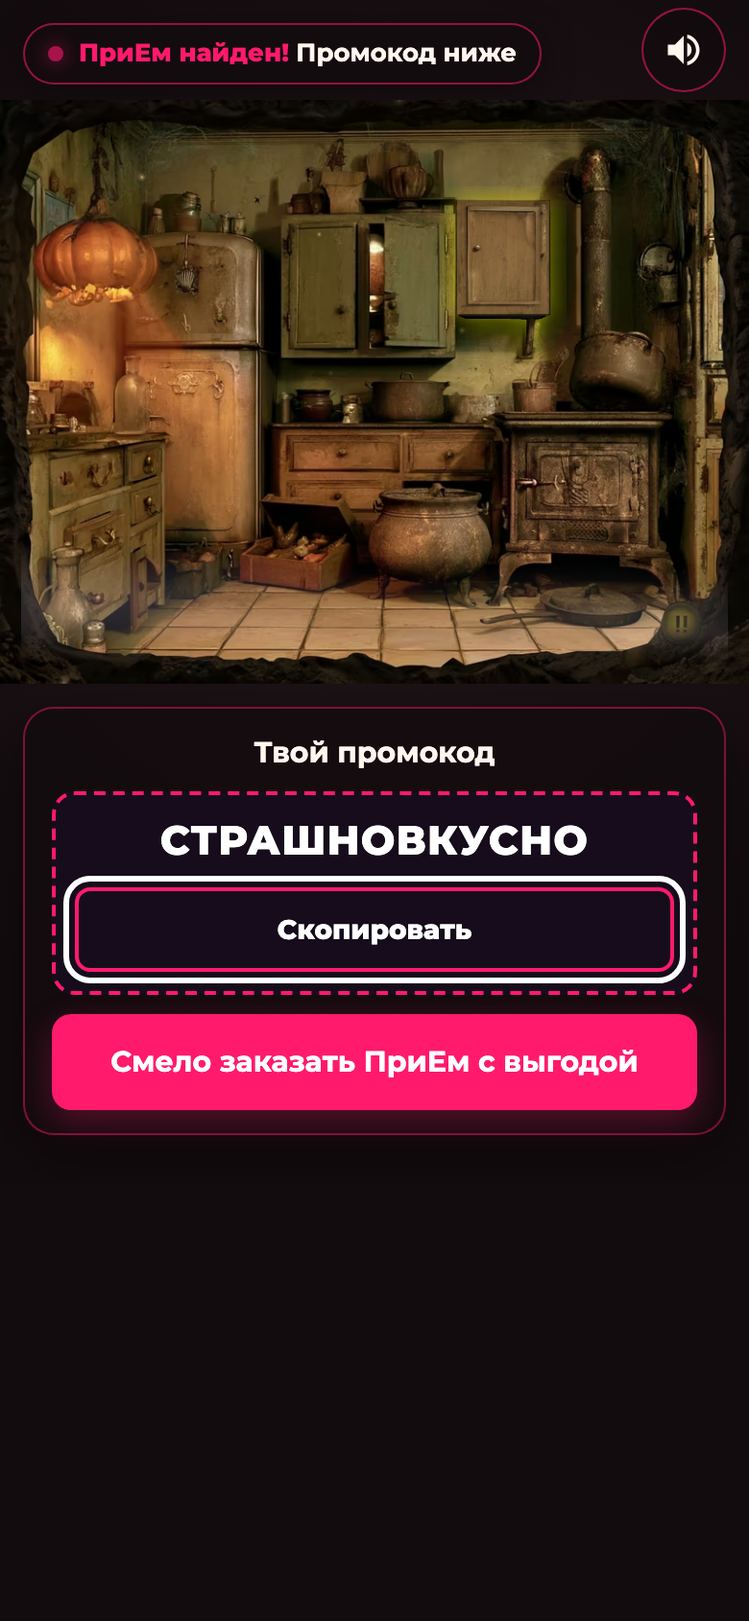
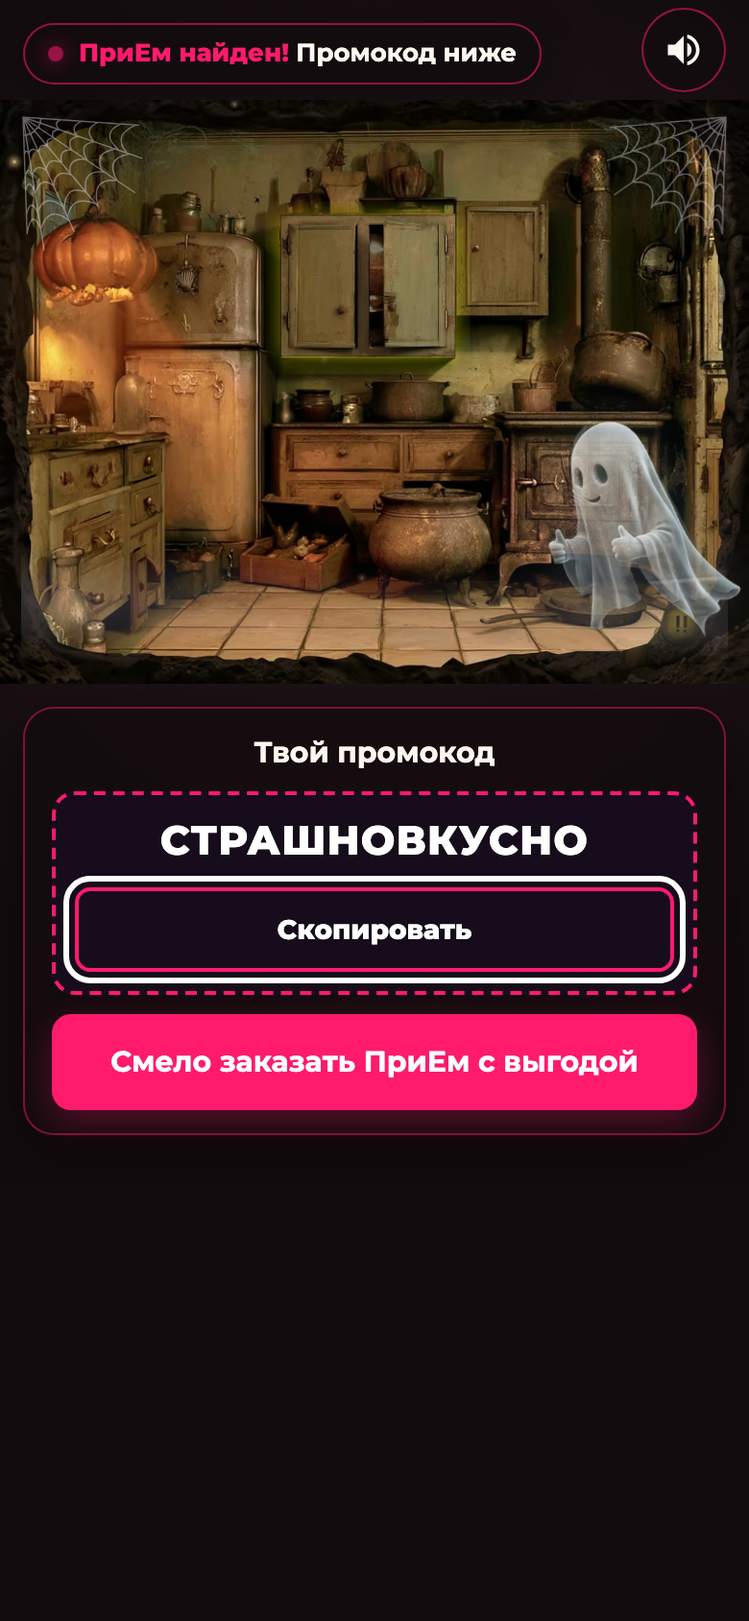
Адаптив попапа: невысокие экраны, узкие, альбомная ориентация

diff --git a/dist/halloween-game-tilda.html b/dist/halloween-game-tilda.html
@@ -203,6 +203,34 @@ background:#1a0f14;border:1px solid rgba(255,26,108,.6);color:#fff;font-size:15p
 #hlw-wrap .hlw-overlay,#hlw-wrap .hlw-dialog,#hlw-wrap .hlw-tip{transition:none}
 #hlw-wrap .hlw-bar{animation:none}
 }
+@media (max-height:860px){
+#hlw-wrap .hlw-pic,#hlw-wrap #hlw-win .hlw-pic{max-height:30vh;max-height:30svh}
+#hlw-wrap .hlw-dtext{margin-top:8px}
+#hlw-wrap .hlw-promo{margin-top:14px}
+#hlw-wrap .hlw-actions{margin-top:14px;gap:10px}
+}
+@media (max-height:700px){
+#hlw-wrap .hlw-pic,#hlw-wrap #hlw-win .hlw-pic{max-height:24vh;max-height:24svh}
+}
+@media (max-width:374px){
+#hlw-wrap .hlw-dtitle{font-size:20px}
+#hlw-wrap .hlw-dtext{font-size:15px}
+#hlw-wrap .hlw-body{padding:16px 16px 18px}
+#hlw-wrap .hlw-btn{min-height:46px}
+}
+@media (max-width:1023px) and (orientation:landscape) and (max-height:560px){
+#hlw-wrap .hlw-scene{width:min(100%,calc((100svh - 64px) * 1337 / 1044))}
+#hlw-wrap .hlw-dialog,#hlw-wrap #hlw-win .hlw-dialog{width:min(100%,820px);display:flex;align-items:stretch;max-height:calc(100svh - 20px)}
+#hlw-wrap .hlw-pic,#hlw-wrap #hlw-win .hlw-pic{flex:0 0 38%;max-height:none;aspect-ratio:auto}
+#hlw-wrap .hlw-pic::after{display:none}
+#hlw-wrap .hlw-body{flex:1 1 auto;overflow-y:auto;padding:16px 20px}
+#hlw-wrap .hlw-dtitle{font-size:20px}
+#hlw-wrap .hlw-dtext{font-size:15px}
+#hlw-wrap .hlw-promo{flex-wrap:nowrap}
+#hlw-wrap .hlw-code{flex:1 1 auto;text-align:left;font-size:18px}
+#hlw-wrap .hlw-copy{flex:0 0 auto}
+#hlw-wrap .hlw-actions .hlw-btn{flex:1 1 auto}
+}
 #hlw-wrap .hlw-hl{color:#fff;font-weight:800;white-space:nowrap;background:var(--hlw-pink);padding:1px 6px;border-radius:5px;-webkit-box-decoration-break:clone;box-decoration-break:clone}
 </style>
 <section id="halloween-game" aria-label="Страшная кухня: найди, где спрятан&nbsp;ПриЕм"><div id="hlw-wrap" class="hlw-wrap" style="--hlw-panel:#4c2f72;--hlw-pink:#ff1a6c;--hlw-yellow:#feda00;--hlw-sec:#8c41e3;--hlw-glow:255,200,40;--hlw-kar:1337/1044;--hlw-topk:0.11900000000000001;--lx:31.8%;--ly:36%;--lw:20%;--klx:12.8%;--kly:32%;--klw:46%;--gx:27.2%;--gy:70%;--gw:43.8%;--gh:24%;--kgx:2.8%;--kgy:69%;--kgw:94.4%;--kgh:28%"><div class="hlw-top"><div class="hlw-pill" role="status" aria-live="polite"><span class="hlw-pill__dot" aria-hidden="true"></span><span class="hlw-pill__txt">Найди, где спрятался <b>ПриЕм</b></span></div><button type="button" class="hlw-sound" aria-pressed="true" aria-label="Выключить звук" title="Выключить звук"><svg class="hlw-off" viewBox="0 0 24 24" aria-hidden="true"><path d="M16.5 12c0-1.77-1.02-3.29-2.5-4.03v2.21l2.45 2.45c.03-.2.05-.41.05-.63zm2.5 0c0 .94-.2 1.82-.54 2.64l1.51 1.51C20.63 14.91 21 13.5 21 12c0-4.28-2.99-7.86-7-8.77v2.06c2.89.86 5 3.54 5 6.71zM4.27 3 3 4.27 7.73 9H3v6h4l5 5v-6.73l4.25 4.25c-.67.52-1.42.93-2.25 1.18v2.06c1.38-.31 2.63-.95 3.69-1.81L19.73 21 21 19.73l-9-9L4.27 3zM12 4 9.91 6.09 12 8.18V4z"/></svg><svg class="hlw-on" viewBox="0 0 24 24" aria-hidden="true"><path d="M3 9v6h4l5 5V4L7 9H3zm13.5 3c0-1.77-1.02-3.29-2.5-4.03v8.05c1.48-.73 2.5-2.25 2.5-4.02zM14 3.23v2.06c2.89.86 5 3.54 5 6.71s-2.11 5.85-5 6.71v2.06c4.01-.91 7-4.49 7-8.77s-2.99-7.86-7-8.77z"/></svg></button></div><div class="hlw-scene"><picture><source media="(min-width:1024px)" type="image/avif" srcset="https://cdn.jsdelivr.net/gh/ElenaSamanchuk/priem-halloween-game@c37df78d004a/assets/scene-1440.6e1880be.avif 1440w, https://cdn.jsdelivr.net/gh/ElenaSamanchuk/priem-halloween-game@c37df78d004a/assets/scene-2880.daaa8933.avif 2880w" sizes="100vw"><source media="(min-width:1024px)" type="image/webp" srcset="https://cdn.jsdelivr.net/gh/ElenaSamanchuk/priem-halloween-game@c37df78d004a/assets/scene-1440.4ed0677d.webp 1440w, https://cdn.jsdelivr.net/gh/ElenaSamanchuk/priem-halloween-game@c37df78d004a/assets/scene-2880.d6ff1ca6.webp 2880w" sizes="100vw"><source type="image/avif" srcset="https://cdn.jsdelivr.net/gh/ElenaSamanchuk/priem-halloween-game@c37df78d004a/assets/kitchen-800.70b8b57f.avif 800w, https://cdn.jsdelivr.net/gh/ElenaSamanchuk/priem-halloween-game@c37df78d004a/assets/kitchen-1400.292609db.avif 1400w" sizes="(max-width:760px) 100vw, 760px"><img class="hlw-scene__bg" src="https://cdn.jsdelivr.net/gh/ElenaSamanchuk/priem-halloween-game@c37df78d004a/assets/kitchen-800.654b2a1f.webp" srcset="https://cdn.jsdelivr.net/gh/ElenaSamanchuk/priem-halloween-game@c37df78d004a/assets/kitchen-800.654b2a1f.webp 800w, https://cdn.jsdelivr.net/gh/ElenaSamanchuk/priem-halloween-game@c37df78d004a/assets/kitchen-1400.e611c2cb.webp 1400w" sizes="(max-width:760px) 100vw, 760px" alt="" draggable="false" decoding="async" fetchpriority="high"></picture><div class="hlw-lamp" aria-hidden="true"></div><div class="hlw-fog" aria-hidden="true"></div><div class="hlw-web hlw-web--l" aria-hidden="true"><svg class="hlw-web__svg" viewBox="0 0 200 200" aria-hidden="true" focusable="false"><path d="M0 0L171.6 12M0 0L175.9 60.6M0 0L165.8 111.8M0 0L110.6 131.8M0 0L75.7 169.9M0 0L31.3 197.5M0 0L6 171.9M29 2Q22.8 4.6 27.5 9.5M27.5 9.5Q20.8 10.4 24.9 16.8M24.1 16.3Q17.3 15.6 18.2 21.6M18.7 22.3Q12.3 19.8 11.8 26.6M11.8 26.6Q6.6 22.3 4.7 29.6M4.6 28.8Q2.2 23.2 1 28.2M55.9 3.9Q43.9 8.9 54.5 18.8M52.9 18.2Q40.1 20 45 30.4M46.4 31.3Q33.3 30 36 42.9M36 42.9Q23.7 38 23.5 52.7M22.8 51.2Q12.7 43 8.5 53.7M8.8 55.3Q4.3 44.6 2 56M87.1 6.1Q68.5 13.9 80.1 27.6M82.6 28.4Q62.5 31.2 72.4 48.9M72.4 48.9Q51.9 46.8 57.8 68.9M56.2 66.9Q37 59.3 34.5 77.4M35.5 79.8Q19.8 67 13.7 86.3M13.7 86.3Q6.7 69.6 3.1 89.9M111.7 7.8Q87.8 17.9 105.9 36.5M105.9 36.5Q80.2 40 95.6 64.5M92.9 62.6Q66.6 60 69.8 83.2M72 85.8Q47.5 76 45.6 102.3M45.6 102.3Q25.4 85.9 18 113.9M17.5 110.6Q8.6 89.2 3.8 108.6M145.2 10.2Q114.1 23.2 141.8 48.8M137.7 47.4Q104.2 52 117.1 79M120.7 81.4Q86.6 77.9 93.6 111.5M93.6 111.5Q61.7 98.8 61 137M59.2 133Q33.1 111.7 22.1 139.5M22.8 143.8Q11.2 115.9 5.1 145.5M167.6 11.7Q131.7 26.8 154.1 53.1M158.8 54.7Q120.3 60 139.3 93.9M139.3 93.9Q99.9 89.9 111.2 132.6M108 128.7Q71.2 114 66.3 148.9M68.3 153.5Q38.2 128.9 26.3 165.9M26.3 165.9Q12.9 133.8 6 172.9" fill="none" stroke="rgba(232,228,240,.55)" stroke-width=".7" vector-effect="non-scaling-stroke" stroke-linecap="round"/></svg></div><div class="hlw-web hlw-web--r" aria-hidden="true"><svg class="hlw-web__svg" viewBox="0 0 200 200" aria-hidden="true" focusable="false"><path d="M0 0L171.6 12M0 0L175.9 60.6M0 0L165.8 111.8M0 0L110.6 131.8M0 0L75.7 169.9M0 0L31.3 197.5M0 0L6 171.9M29 2Q22.8 4.6 27.5 9.5M27.5 9.5Q20.8 10.4 24.9 16.8M24.1 16.3Q17.3 15.6 18.2 21.6M18.7 22.3Q12.3 19.8 11.8 26.6M11.8 26.6Q6.6 22.3 4.7 29.6M4.6 28.8Q2.2 23.2 1 28.2M55.9 3.9Q43.9 8.9 54.5 18.8M52.9 18.2Q40.1 20 45 30.4M46.4 31.3Q33.3 30 36 42.9M36 42.9Q23.7 38 23.5 52.7M22.8 51.2Q12.7 43 8.5 53.7M8.8 55.3Q4.3 44.6 2 56M87.1 6.1Q68.5 13.9 80.1 27.6M82.6 28.4Q62.5 31.2 72.4 48.9M72.4 48.9Q51.9 46.8 57.8 68.9M56.2 66.9Q37 59.3 34.5 77.4M35.5 79.8Q19.8 67 13.7 86.3M13.7 86.3Q6.7 69.6 3.1 89.9M111.7 7.8Q87.8 17.9 105.9 36.5M105.9 36.5Q80.2 40 95.6 64.5M92.9 62.6Q66.6 60 69.8 83.2M72 85.8Q47.5 76 45.6 102.3M45.6 102.3Q25.4 85.9 18 113.9M17.5 110.6Q8.6 89.2 3.8 108.6M145.2 10.2Q114.1 23.2 141.8 48.8M137.7 47.4Q104.2 52 117.1 79M120.7 81.4Q86.6 77.9 93.6 111.5M93.6 111.5Q61.7 98.8 61 137M59.2 133Q33.1 111.7 22.1 139.5M22.8 143.8Q11.2 115.9 5.1 145.5M167.6 11.7Q131.7 26.8 154.1 53.1M158.8 54.7Q120.3 60 139.3 93.9M139.3 93.9Q99.9 89.9 111.2 132.6M108 128.7Q71.2 114 66.3 148.9M68.3 153.5Q38.2 128.9 26.3 165.9M26.3 165.9Q12.9 133.8 6 172.9" fill="none" stroke="rgba(232,228,240,.55)" stroke-width=".7" vector-effect="non-scaling-stroke" stroke-linecap="round"/></svg></div><div class="hlw-ghost" aria-hidden="true" style="--gr:0.8531"><div class="hlw-ghost__bob"><picture><source type="image/avif" srcset="https://cdn.jsdelivr.net/gh/ElenaSamanchuk/priem-halloween-game@c37df78d004a/assets/ghost-640.2c72e0b8.avif"><img src="https://cdn.jsdelivr.net/gh/ElenaSamanchuk/priem-halloween-game@c37df78d004a/assets/ghost-640.ccb87ec0.webp" alt="" draggable="false" decoding="async" loading="lazy"></picture></div></div><div class="hlw-items" role="group" aria-label="Страшная кухня: найди, где спрятан&nbsp;ПриЕм"><button type="button" class="hlw-item" data-id="pumpkin-lamp" aria-label="Светильник-тыква" style="--fx:26.851%;--fy:14.397%;--fw:10.000%;--fh:28.761%;--kx:2.043%;--ky:5.670%;--kw:21.541%;--kh:33.142%;--o:50% 0%;--hlw-d:0.00s"><img class="hlw-item__img" src="https://cdn.jsdelivr.net/gh/ElenaSamanchuk/priem-halloween-game@c37df78d004a/assets/item-pumpkin-lamp.c3903d52.webp" alt="" draggable="false" decoding="async"></button><button type="button" class="hlw-item" data-id="cabinet-double" aria-label="Шкаф с приоткрытой дверцей" style="--fx:42.345%;--fy:24.554%;--fw:12.743%;--fh:25.603%;--kx:35.419%;--ky:17.375%;--kw:27.450%;--kh:29.502%;--o:50% 0%;--hlw-d:0.43s"><img class="hlw-item__img" src="https://cdn.jsdelivr.net/gh/ElenaSamanchuk/priem-halloween-game@c37df78d004a/assets/item-cabinet-double.2a321ebc.webp" alt="" draggable="false" decoding="async"></button><button type="button" class="hlw-item" data-id="cabinet-single" aria-label="Навесной шкафчик" style="--fx:53.111%;--fy:22.473%;--fw:7.812%;--fh:26.018%;--kx:58.610%;--ky:14.976%;--kw:16.829%;--kh:29.981%;--o:50% 0%;--hlw-d:0.86s"><img class="hlw-item__img" src="https://cdn.jsdelivr.net/gh/ElenaSamanchuk/priem-halloween-game@c37df78d004a/assets/item-cabinet-single.318d29f1.webp" alt="" draggable="false" decoding="async"></button><button type="button" class="hlw-item" data-id="veg-crate" aria-label="Ящик с овощами" style="--fx:40.090%;--fy:66.111%;--fw:8.854%;--fh:19.285%;--kx:30.561%;--ky:65.260%;--kw:19.073%;--kh:22.222%;--o:50% 100%;--hlw-d:1.29s"><img class="hlw-item__img" src="https://cdn.jsdelivr.net/gh/ElenaSamanchuk/priem-halloween-game@c37df78d004a/assets/item-veg-crate.0ac84e96.webp" alt="" draggable="false" decoding="async"></button><button type="button" class="hlw-item" data-id="cauldron" aria-label="Котёл" style="--fx:47.917%;--fy:64.989%;--fw:9.340%;--fh:21.114%;--kx:47.420%;--ky:63.967%;--kw:20.120%;--kh:24.330%;--o:50% 100%;--hlw-d:1.72s"><img class="hlw-item__img" src="https://cdn.jsdelivr.net/gh/ElenaSamanchuk/priem-halloween-game@c37df78d004a/assets/item-cauldron.4abd528a.webp" alt="" draggable="false" decoding="async"></button><button type="button" class="hlw-item" data-id="pan" aria-label="Сковорода под крышкой" style="--fx:55.158%;--fy:79.510%;--fw:11.528%;--fh:11.222%;--kx:63.018%;--ky:80.699%;--kw:24.832%;--kh:12.931%;--o:50% 100%;--hlw-d:2.15s"><img class="hlw-item__img" src="https://cdn.jsdelivr.net/gh/ElenaSamanchuk/priem-halloween-game@c37df78d004a/assets/item-pan.674b38ad.webp" alt="" draggable="false" decoding="async"></button></div><div class="hlw-torch" aria-hidden="true"><div class="hlw-torch__beam"></div></div><canvas class="hlw-fx" aria-hidden="true"></canvas></div><div class="hlw-bar" id="hlw-bar" hidden><span class="hlw-bar__label">Твой промокод</span><div class="hlw-promo"><button type="button" class="hlw-code" aria-label="Скопировать промокод СТРАШНОВКУСНО">СТРАШНОВКУСНО</button><button type="button" class="hlw-copy">Скопировать</button><span class="hlw-tip" role="status" aria-live="polite"></span></div><a class="hlw-btn" href="#menu-plans-v2" data-hlw-order>Смело заказать ПриЕм с&nbsp;выгодой</a></div><div class="hlw-overlay" id="hlw-miss" hidden><div class="hlw-dialog" role="dialog" aria-modal="true" aria-labelledby="hlw-miss-title" aria-describedby="hlw-miss-text" tabindex="-1"><button type="button" class="hlw-close" data-hlw-close aria-label="Закрыть"><svg viewBox="0 0 24 24" aria-hidden="true"><path d="M6 6l12 12M18 6 6 18" fill="none"/></svg></button><div class="hlw-pic"><picture><source id="hlw-miss-avif" type="image/avif" sizes="(max-width:560px) 100vw, 560px"><img id="hlw-miss-img" alt="" sizes="(max-width:560px) 100vw, 560px" decoding="async"></picture></div><div class="hlw-body"><h2 class="hlw-dtitle" id="hlw-miss-title"></h2><p class="hlw-dtext" id="hlw-miss-text"></p><div class="hlw-actions"><button type="button" class="hlw-btn" data-hlw-close>Продолжить&nbsp;поиск</button></div></div></div></div><div class="hlw-overlay" id="hlw-win" hidden><div class="hlw-dialog" role="dialog" aria-modal="true" aria-labelledby="hlw-win-title" aria-describedby="hlw-win-text" tabindex="-1"><button type="button" class="hlw-close" data-hlw-close aria-label="Закрыть"><svg viewBox="0 0 24 24" aria-hidden="true"><path d="M6 6l12 12M18 6 6 18" fill="none"/></svg></button><div class="hlw-pic"><picture><source type="image/avif" srcset="https://cdn.jsdelivr.net/gh/ElenaSamanchuk/priem-halloween-game@c37df78d004a/assets/modal-win-720.0377768a.avif 720w, https://cdn.jsdelivr.net/gh/ElenaSamanchuk/priem-halloween-game@c37df78d004a/assets/modal-win-1200.0791eab0.avif 1200w" sizes="(max-width:640px) 100vw, 640px"><img alt="Тыквоголовый скелет с клевером и довольный призрак" src="https://cdn.jsdelivr.net/gh/ElenaSamanchuk/priem-halloween-game@c37df78d004a/assets/modal-win-720.e848ea72.webp" srcset="https://cdn.jsdelivr.net/gh/ElenaSamanchuk/priem-halloween-game@c37df78d004a/assets/modal-win-720.e848ea72.webp 720w, https://cdn.jsdelivr.net/gh/ElenaSamanchuk/priem-halloween-game@c37df78d004a/assets/modal-win-1200.777a0dca.webp 1200w" sizes="(max-width:640px) 100vw, 640px" decoding="async"></picture></div><div class="hlw-body"><h2 class="hlw-dtitle" id="hlw-win-title">Ого, ты&nbsp;не&nbsp;только смелый, но&nbsp;и&nbsp;удачливый!</h2><p class="hlw-dtext" id="hlw-win-text">Ты&nbsp;нашёл ПриЕм, а&nbsp;значит тебе больше не&nbsp;нужно заходить на&nbsp;страшную кухню. Заказывай готовую еду ещё выгоднее с&nbsp;промокодом <b class="hlw-hl">СТРАШНОВКУСНО</b> на&nbsp;1000&nbsp;₽ (на&nbsp;заказы от&nbsp;5&nbsp;дней)</p><div class="hlw-promo"><button type="button" class="hlw-code" aria-label="Скопировать промокод СТРАШНОВКУСНО">СТРАШНОВКУСНО</button><button type="button" class="hlw-copy">Скопировать</button><span class="hlw-tip" role="status" aria-live="polite"></span></div><div class="hlw-actions"><a class="hlw-btn" href="#menu-plans-v2" data-hlw-order>Смело заказать ПриЕм с&nbsp;выгодой</a><button type="button" class="hlw-btn hlw-btn--sec" id="hlw-share" aria-expanded="false" aria-controls="hlw-sharerow">Рассказать друзьям</button></div><div class="hlw-sharerow" id="hlw-sharerow" hidden><a class="hlw-sharelink" id="hlw-share-vk" href="https://vk.com/share.php" target="_blank" rel="noopener">ВКонтакте</a><a class="hlw-sharelink" id="hlw-share-tg" href="https://t.me/share/url" target="_blank" rel="noopener">Telegram</a><button type="button" class="hlw-sharelink" id="hlw-share-copy">Скопировать ссылку</button></div></div></div></div><div class="hlw-toast" role="status" aria-live="polite"></div></div></section>

diff --git a/dist/halloween-game-local.html b/dist/halloween-game-local.html
@@ -203,6 +203,34 @@ background:#1a0f14;border:1px solid rgba(255,26,108,.6);color:#fff;font-size:15p
 #hlw-wrap .hlw-overlay,#hlw-wrap .hlw-dialog,#hlw-wrap .hlw-tip{transition:none}
 #hlw-wrap .hlw-bar{animation:none}
 }
+@media (max-height:860px){
+#hlw-wrap .hlw-pic,#hlw-wrap #hlw-win .hlw-pic{max-height:30vh;max-height:30svh}
+#hlw-wrap .hlw-dtext{margin-top:8px}
+#hlw-wrap .hlw-promo{margin-top:14px}
+#hlw-wrap .hlw-actions{margin-top:14px;gap:10px}
+}
+@media (max-height:700px){
+#hlw-wrap .hlw-pic,#hlw-wrap #hlw-win .hlw-pic{max-height:24vh;max-height:24svh}
+}
+@media (max-width:374px){
+#hlw-wrap .hlw-dtitle{font-size:20px}
+#hlw-wrap .hlw-dtext{font-size:15px}
+#hlw-wrap .hlw-body{padding:16px 16px 18px}
+#hlw-wrap .hlw-btn{min-height:46px}
+}
+@media (max-width:1023px) and (orientation:landscape) and (max-height:560px){
+#hlw-wrap .hlw-scene{width:min(100%,calc((100svh - 64px) * 1337 / 1044))}
+#hlw-wrap .hlw-dialog,#hlw-wrap #hlw-win .hlw-dialog{width:min(100%,820px);display:flex;align-items:stretch;max-height:calc(100svh - 20px)}
+#hlw-wrap .hlw-pic,#hlw-wrap #hlw-win .hlw-pic{flex:0 0 38%;max-height:none;aspect-ratio:auto}
+#hlw-wrap .hlw-pic::after{display:none}
+#hlw-wrap .hlw-body{flex:1 1 auto;overflow-y:auto;padding:16px 20px}
+#hlw-wrap .hlw-dtitle{font-size:20px}
+#hlw-wrap .hlw-dtext{font-size:15px}
+#hlw-wrap .hlw-promo{flex-wrap:nowrap}
+#hlw-wrap .hlw-code{flex:1 1 auto;text-align:left;font-size:18px}
+#hlw-wrap .hlw-copy{flex:0 0 auto}
+#hlw-wrap .hlw-actions .hlw-btn{flex:1 1 auto}
+}
 #hlw-wrap .hlw-hl{color:#fff;font-weight:800;white-space:nowrap;background:var(--hlw-pink);padding:1px 6px;border-radius:5px;-webkit-box-decoration-break:clone;box-decoration-break:clone}
 </style>
 <section id="halloween-game" aria-label="Страшная кухня: найди, где спрятан&nbsp;ПриЕм"><div id="hlw-wrap" class="hlw-wrap" style="--hlw-panel:#4c2f72;--hlw-pink:#ff1a6c;--hlw-yellow:#feda00;--hlw-sec:#8c41e3;--hlw-glow:255,200,40;--hlw-kar:1337/1044;--hlw-topk:0.11900000000000001;--lx:31.8%;--ly:36%;--lw:20%;--klx:12.8%;--kly:32%;--klw:46%;--gx:27.2%;--gy:70%;--gw:43.8%;--gh:24%;--kgx:2.8%;--kgy:69%;--kgw:94.4%;--kgh:28%"><div class="hlw-top"><div class="hlw-pill" role="status" aria-live="polite"><span class="hlw-pill__dot" aria-hidden="true"></span><span class="hlw-pill__txt">Найди, где спрятался <b>ПриЕм</b></span></div><button type="button" class="hlw-sound" aria-pressed="true" aria-label="Выключить звук" title="Выключить звук"><svg class="hlw-off" viewBox="0 0 24 24" aria-hidden="true"><path d="M16.5 12c0-1.77-1.02-3.29-2.5-4.03v2.21l2.45 2.45c.03-.2.05-.41.05-.63zm2.5 0c0 .94-.2 1.82-.54 2.64l1.51 1.51C20.63 14.91 21 13.5 21 12c0-4.28-2.99-7.86-7-8.77v2.06c2.89.86 5 3.54 5 6.71zM4.27 3 3 4.27 7.73 9H3v6h4l5 5v-6.73l4.25 4.25c-.67.52-1.42.93-2.25 1.18v2.06c1.38-.31 2.63-.95 3.69-1.81L19.73 21 21 19.73l-9-9L4.27 3zM12 4 9.91 6.09 12 8.18V4z"/></svg><svg class="hlw-on" viewBox="0 0 24 24" aria-hidden="true"><path d="M3 9v6h4l5 5V4L7 9H3zm13.5 3c0-1.77-1.02-3.29-2.5-4.03v8.05c1.48-.73 2.5-2.25 2.5-4.02zM14 3.23v2.06c2.89.86 5 3.54 5 6.71s-2.11 5.85-5 6.71v2.06c4.01-.91 7-4.49 7-8.77s-2.99-7.86-7-8.77z"/></svg></button></div><div class="hlw-scene"><picture><source media="(min-width:1024px)" type="image/avif" srcset="./assets/scene-1440.6e1880be.avif 1440w, ./assets/scene-2880.daaa8933.avif 2880w" sizes="100vw"><source media="(min-width:1024px)" type="image/webp" srcset="./assets/scene-1440.4ed0677d.webp 1440w, ./assets/scene-2880.d6ff1ca6.webp 2880w" sizes="100vw"><source type="image/avif" srcset="./assets/kitchen-800.70b8b57f.avif 800w, ./assets/kitchen-1400.292609db.avif 1400w" sizes="(max-width:760px) 100vw, 760px"><img class="hlw-scene__bg" src="./assets/kitchen-800.654b2a1f.webp" srcset="./assets/kitchen-800.654b2a1f.webp 800w, ./assets/kitchen-1400.e611c2cb.webp 1400w" sizes="(max-width:760px) 100vw, 760px" alt="" draggable="false" decoding="async" fetchpriority="high"></picture><div class="hlw-lamp" aria-hidden="true"></div><div class="hlw-fog" aria-hidden="true"></div><div class="hlw-web hlw-web--l" aria-hidden="true"><svg class="hlw-web__svg" viewBox="0 0 200 200" aria-hidden="true" focusable="false"><path d="M0 0L171.6 12M0 0L175.9 60.6M0 0L165.8 111.8M0 0L110.6 131.8M0 0L75.7 169.9M0 0L31.3 197.5M0 0L6 171.9M29 2Q22.8 4.6 27.5 9.5M27.5 9.5Q20.8 10.4 24.9 16.8M24.1 16.3Q17.3 15.6 18.2 21.6M18.7 22.3Q12.3 19.8 11.8 26.6M11.8 26.6Q6.6 22.3 4.7 29.6M4.6 28.8Q2.2 23.2 1 28.2M55.9 3.9Q43.9 8.9 54.5 18.8M52.9 18.2Q40.1 20 45 30.4M46.4 31.3Q33.3 30 36 42.9M36 42.9Q23.7 38 23.5 52.7M22.8 51.2Q12.7 43 8.5 53.7M8.8 55.3Q4.3 44.6 2 56M87.1 6.1Q68.5 13.9 80.1 27.6M82.6 28.4Q62.5 31.2 72.4 48.9M72.4 48.9Q51.9 46.8 57.8 68.9M56.2 66.9Q37 59.3 34.5 77.4M35.5 79.8Q19.8 67 13.7 86.3M13.7 86.3Q6.7 69.6 3.1 89.9M111.7 7.8Q87.8 17.9 105.9 36.5M105.9 36.5Q80.2 40 95.6 64.5M92.9 62.6Q66.6 60 69.8 83.2M72 85.8Q47.5 76 45.6 102.3M45.6 102.3Q25.4 85.9 18 113.9M17.5 110.6Q8.6 89.2 3.8 108.6M145.2 10.2Q114.1 23.2 141.8 48.8M137.7 47.4Q104.2 52 117.1 79M120.7 81.4Q86.6 77.9 93.6 111.5M93.6 111.5Q61.7 98.8 61 137M59.2 133Q33.1 111.7 22.1 139.5M22.8 143.8Q11.2 115.9 5.1 145.5M167.6 11.7Q131.7 26.8 154.1 53.1M158.8 54.7Q120.3 60 139.3 93.9M139.3 93.9Q99.9 89.9 111.2 132.6M108 128.7Q71.2 114 66.3 148.9M68.3 153.5Q38.2 128.9 26.3 165.9M26.3 165.9Q12.9 133.8 6 172.9" fill="none" stroke="rgba(232,228,240,.55)" stroke-width=".7" vector-effect="non-scaling-stroke" stroke-linecap="round"/></svg></div><div class="hlw-web hlw-web--r" aria-hidden="true"><svg class="hlw-web__svg" viewBox="0 0 200 200" aria-hidden="true" focusable="false"><path d="M0 0L171.6 12M0 0L175.9 60.6M0 0L165.8 111.8M0 0L110.6 131.8M0 0L75.7 169.9M0 0L31.3 197.5M0 0L6 171.9M29 2Q22.8 4.6 27.5 9.5M27.5 9.5Q20.8 10.4 24.9 16.8M24.1 16.3Q17.3 15.6 18.2 21.6M18.7 22.3Q12.3 19.8 11.8 26.6M11.8 26.6Q6.6 22.3 4.7 29.6M4.6 28.8Q2.2 23.2 1 28.2M55.9 3.9Q43.9 8.9 54.5 18.8M52.9 18.2Q40.1 20 45 30.4M46.4 31.3Q33.3 30 36 42.9M36 42.9Q23.7 38 23.5 52.7M22.8 51.2Q12.7 43 8.5 53.7M8.8 55.3Q4.3 44.6 2 56M87.1 6.1Q68.5 13.9 80.1 27.6M82.6 28.4Q62.5 31.2 72.4 48.9M72.4 48.9Q51.9 46.8 57.8 68.9M56.2 66.9Q37 59.3 34.5 77.4M35.5 79.8Q19.8 67 13.7 86.3M13.7 86.3Q6.7 69.6 3.1 89.9M111.7 7.8Q87.8 17.9 105.9 36.5M105.9 36.5Q80.2 40 95.6 64.5M92.9 62.6Q66.6 60 69.8 83.2M72 85.8Q47.5 76 45.6 102.3M45.6 102.3Q25.4 85.9 18 113.9M17.5 110.6Q8.6 89.2 3.8 108.6M145.2 10.2Q114.1 23.2 141.8 48.8M137.7 47.4Q104.2 52 117.1 79M120.7 81.4Q86.6 77.9 93.6 111.5M93.6 111.5Q61.7 98.8 61 137M59.2 133Q33.1 111.7 22.1 139.5M22.8 143.8Q11.2 115.9 5.1 145.5M167.6 11.7Q131.7 26.8 154.1 53.1M158.8 54.7Q120.3 60 139.3 93.9M139.3 93.9Q99.9 89.9 111.2 132.6M108 128.7Q71.2 114 66.3 148.9M68.3 153.5Q38.2 128.9 26.3 165.9M26.3 165.9Q12.9 133.8 6 172.9" fill="none" stroke="rgba(232,228,240,.55)" stroke-width=".7" vector-effect="non-scaling-stroke" stroke-linecap="round"/></svg></div><div class="hlw-ghost" aria-hidden="true" style="--gr:0.8531"><div class="hlw-ghost__bob"><picture><source type="image/avif" srcset="./assets/ghost-640.2c72e0b8.avif"><img src="./assets/ghost-640.ccb87ec0.webp" alt="" draggable="false" decoding="async" loading="lazy"></picture></div></div><div class="hlw-items" role="group" aria-label="Страшная кухня: найди, где спрятан&nbsp;ПриЕм"><button type="button" class="hlw-item" data-id="pumpkin-lamp" aria-label="Светильник-тыква" style="--fx:26.851%;--fy:14.397%;--fw:10.000%;--fh:28.761%;--kx:2.043%;--ky:5.670%;--kw:21.541%;--kh:33.142%;--o:50% 0%;--hlw-d:0.00s"><img class="hlw-item__img" src="./assets/item-pumpkin-lamp.c3903d52.webp" alt="" draggable="false" decoding="async"></button><button type="button" class="hlw-item" data-id="cabinet-double" aria-label="Шкаф с приоткрытой дверцей" style="--fx:42.345%;--fy:24.554%;--fw:12.743%;--fh:25.603%;--kx:35.419%;--ky:17.375%;--kw:27.450%;--kh:29.502%;--o:50% 0%;--hlw-d:0.43s"><img class="hlw-item__img" src="./assets/item-cabinet-double.2a321ebc.webp" alt="" draggable="false" decoding="async"></button><button type="button" class="hlw-item" data-id="cabinet-single" aria-label="Навесной шкафчик" style="--fx:53.111%;--fy:22.473%;--fw:7.812%;--fh:26.018%;--kx:58.610%;--ky:14.976%;--kw:16.829%;--kh:29.981%;--o:50% 0%;--hlw-d:0.86s"><img class="hlw-item__img" src="./assets/item-cabinet-single.318d29f1.webp" alt="" draggable="false" decoding="async"></button><button type="button" class="hlw-item" data-id="veg-crate" aria-label="Ящик с овощами" style="--fx:40.090%;--fy:66.111%;--fw:8.854%;--fh:19.285%;--kx:30.561%;--ky:65.260%;--kw:19.073%;--kh:22.222%;--o:50% 100%;--hlw-d:1.29s"><img class="hlw-item__img" src="./assets/item-veg-crate.0ac84e96.webp" alt="" draggable="false" decoding="async"></button><button type="button" class="hlw-item" data-id="cauldron" aria-label="Котёл" style="--fx:47.917%;--fy:64.989%;--fw:9.340%;--fh:21.114%;--kx:47.420%;--ky:63.967%;--kw:20.120%;--kh:24.330%;--o:50% 100%;--hlw-d:1.72s"><img class="hlw-item__img" src="./assets/item-cauldron.4abd528a.webp" alt="" draggable="false" decoding="async"></button><button type="button" class="hlw-item" data-id="pan" aria-label="Сковорода под крышкой" style="--fx:55.158%;--fy:79.510%;--fw:11.528%;--fh:11.222%;--kx:63.018%;--ky:80.699%;--kw:24.832%;--kh:12.931%;--o:50% 100%;--hlw-d:2.15s"><img class="hlw-item__img" src="./assets/item-pan.674b38ad.webp" alt="" draggable="false" decoding="async"></button></div><div class="hlw-torch" aria-hidden="true"><div class="hlw-torch__beam"></div></div><canvas class="hlw-fx" aria-hidden="true"></canvas></div><div class="hlw-bar" id="hlw-bar" hidden><span class="hlw-bar__label">Твой промокод</span><div class="hlw-promo"><button type="button" class="hlw-code" aria-label="Скопировать промокод СТРАШНОВКУСНО">СТРАШНОВКУСНО</button><button type="button" class="hlw-copy">Скопировать</button><span class="hlw-tip" role="status" aria-live="polite"></span></div><a class="hlw-btn" href="#menu-plans-v2" data-hlw-order>Смело заказать ПриЕм с&nbsp;выгодой</a></div><div class="hlw-overlay" id="hlw-miss" hidden><div class="hlw-dialog" role="dialog" aria-modal="true" aria-labelledby="hlw-miss-title" aria-describedby="hlw-miss-text" tabindex="-1"><button type="button" class="hlw-close" data-hlw-close aria-label="Закрыть"><svg viewBox="0 0 24 24" aria-hidden="true"><path d="M6 6l12 12M18 6 6 18" fill="none"/></svg></button><div class="hlw-pic"><picture><source id="hlw-miss-avif" type="image/avif" sizes="(max-width:560px) 100vw, 560px"><img id="hlw-miss-img" alt="" sizes="(max-width:560px) 100vw, 560px" decoding="async"></picture></div><div class="hlw-body"><h2 class="hlw-dtitle" id="hlw-miss-title"></h2><p class="hlw-dtext" id="hlw-miss-text"></p><div class="hlw-actions"><button type="button" class="hlw-btn" data-hlw-close>Продолжить&nbsp;поиск</button></div></div></div></div><div class="hlw-overlay" id="hlw-win" hidden><div class="hlw-dialog" role="dialog" aria-modal="true" aria-labelledby="hlw-win-title" aria-describedby="hlw-win-text" tabindex="-1"><button type="button" class="hlw-close" data-hlw-close aria-label="Закрыть"><svg viewBox="0 0 24 24" aria-hidden="true"><path d="M6 6l12 12M18 6 6 18" fill="none"/></svg></button><div class="hlw-pic"><picture><source type="image/avif" srcset="./assets/modal-win-720.0377768a.avif 720w, ./assets/modal-win-1200.0791eab0.avif 1200w" sizes="(max-width:640px) 100vw, 640px"><img alt="Тыквоголовый скелет с клевером и довольный призрак" src="./assets/modal-win-720.e848ea72.webp" srcset="./assets/modal-win-720.e848ea72.webp 720w, ./assets/modal-win-1200.777a0dca.webp 1200w" sizes="(max-width:640px) 100vw, 640px" decoding="async"></picture></div><div class="hlw-body"><h2 class="hlw-dtitle" id="hlw-win-title">Ого, ты&nbsp;не&nbsp;только смелый, но&nbsp;и&nbsp;удачливый!</h2><p class="hlw-dtext" id="hlw-win-text">Ты&nbsp;нашёл ПриЕм, а&nbsp;значит тебе больше не&nbsp;нужно заходить на&nbsp;страшную кухню. Заказывай готовую еду ещё выгоднее с&nbsp;промокодом <b class="hlw-hl">СТРАШНОВКУСНО</b> на&nbsp;1000&nbsp;₽ (на&nbsp;заказы от&nbsp;5&nbsp;дней)</p><div class="hlw-promo"><button type="button" class="hlw-code" aria-label="Скопировать промокод СТРАШНОВКУСНО">СТРАШНОВКУСНО</button><button type="button" class="hlw-copy">Скопировать</button><span class="hlw-tip" role="status" aria-live="polite"></span></div><div class="hlw-actions"><a class="hlw-btn" href="#menu-plans-v2" data-hlw-order>Смело заказать ПриЕм с&nbsp;выгодой</a><button type="button" class="hlw-btn hlw-btn--sec" id="hlw-share" aria-expanded="false" aria-controls="hlw-sharerow">Рассказать друзьям</button></div><div class="hlw-sharerow" id="hlw-sharerow" hidden><a class="hlw-sharelink" id="hlw-share-vk" href="https://vk.com/share.php" target="_blank" rel="noopener">ВКонтакте</a><a class="hlw-sharelink" id="hlw-share-tg" href="https://t.me/share/url" target="_blank" rel="noopener">Telegram</a><button type="button" class="hlw-sharelink" id="hlw-share-copy">Скопировать ссылку</button></div></div></div></div><div class="hlw-toast" role="status" aria-live="polite"></div></div></section>

diff --git a/dist/preview.html b/dist/preview.html
@@ -206,6 +206,34 @@ background:#1a0f14;border:1px solid rgba(255,26,108,.6);color:#fff;font-size:15p
 #hlw-wrap .hlw-overlay,#hlw-wrap .hlw-dialog,#hlw-wrap .hlw-tip{transition:none}
 #hlw-wrap .hlw-bar{animation:none}
 }
+@media (max-height:860px){
+#hlw-wrap .hlw-pic,#hlw-wrap #hlw-win .hlw-pic{max-height:30vh;max-height:30svh}
+#hlw-wrap .hlw-dtext{margin-top:8px}
+#hlw-wrap .hlw-promo{margin-top:14px}
+#hlw-wrap .hlw-actions{margin-top:14px;gap:10px}
+}
+@media (max-height:700px){
+#hlw-wrap .hlw-pic,#hlw-wrap #hlw-win .hlw-pic{max-height:24vh;max-height:24svh}
+}
+@media (max-width:374px){
+#hlw-wrap .hlw-dtitle{font-size:20px}
+#hlw-wrap .hlw-dtext{font-size:15px}
+#hlw-wrap .hlw-body{padding:16px 16px 18px}
+#hlw-wrap .hlw-btn{min-height:46px}
+}
+@media (max-width:1023px) and (orientation:landscape) and (max-height:560px){
+#hlw-wrap .hlw-scene{width:min(100%,calc((100svh - 64px) * 1337 / 1044))}
+#hlw-wrap .hlw-dialog,#hlw-wrap #hlw-win .hlw-dialog{width:min(100%,820px);display:flex;align-items:stretch;max-height:calc(100svh - 20px)}
+#hlw-wrap .hlw-pic,#hlw-wrap #hlw-win .hlw-pic{flex:0 0 38%;max-height:none;aspect-ratio:auto}
+#hlw-wrap .hlw-pic::after{display:none}
+#hlw-wrap .hlw-body{flex:1 1 auto;overflow-y:auto;padding:16px 20px}
+#hlw-wrap .hlw-dtitle{font-size:20px}
+#hlw-wrap .hlw-dtext{font-size:15px}
+#hlw-wrap .hlw-promo{flex-wrap:nowrap}
+#hlw-wrap .hlw-code{flex:1 1 auto;text-align:left;font-size:18px}
+#hlw-wrap .hlw-copy{flex:0 0 auto}
+#hlw-wrap .hlw-actions .hlw-btn{flex:1 1 auto}
+}
 #hlw-wrap .hlw-hl{color:#fff;font-weight:800;white-space:nowrap;background:var(--hlw-pink);padding:1px 6px;border-radius:5px;-webkit-box-decoration-break:clone;box-decoration-break:clone}
 </style>
 <section id="halloween-game" aria-label="Страшная кухня: найди, где спрятан&nbsp;ПриЕм"><div id="hlw-wrap" class="hlw-wrap" style="--hlw-panel:#4c2f72;--hlw-pink:#ff1a6c;--hlw-yellow:#feda00;--hlw-sec:#8c41e3;--hlw-glow:255,200,40;--hlw-kar:1337/1044;--hlw-topk:0.11900000000000001;--lx:31.8%;--ly:36%;--lw:20%;--klx:12.8%;--kly:32%;--klw:46%;--gx:27.2%;--gy:70%;--gw:43.8%;--gh:24%;--kgx:2.8%;--kgy:69%;--kgw:94.4%;--kgh:28%"><div class="hlw-top"><div class="hlw-pill" role="status" aria-live="polite"><span class="hlw-pill__dot" aria-hidden="true"></span><span class="hlw-pill__txt">Найди, где спрятался <b>ПриЕм</b></span></div><button type="button" class="hlw-sound" aria-pressed="true" aria-label="Выключить звук" title="Выключить звук"><svg class="hlw-off" viewBox="0 0 24 24" aria-hidden="true"><path d="M16.5 12c0-1.77-1.02-3.29-2.5-4.03v2.21l2.45 2.45c.03-.2.05-.41.05-.63zm2.5 0c0 .94-.2 1.82-.54 2.64l1.51 1.51C20.63 14.91 21 13.5 21 12c0-4.28-2.99-7.86-7-8.77v2.06c2.89.86 5 3.54 5 6.71zM4.27 3 3 4.27 7.73 9H3v6h4l5 5v-6.73l4.25 4.25c-.67.52-1.42.93-2.25 1.18v2.06c1.38-.31 2.63-.95 3.69-1.81L19.73 21 21 19.73l-9-9L4.27 3zM12 4 9.91 6.09 12 8.18V4z"/></svg><svg class="hlw-on" viewBox="0 0 24 24" aria-hidden="true"><path d="M3 9v6h4l5 5V4L7 9H3zm13.5 3c0-1.77-1.02-3.29-2.5-4.03v8.05c1.48-.73 2.5-2.25 2.5-4.02zM14 3.23v2.06c2.89.86 5 3.54 5 6.71s-2.11 5.85-5 6.71v2.06c4.01-.91 7-4.49 7-8.77s-2.99-7.86-7-8.77z"/></svg></button></div><div class="hlw-scene"><picture><source media="(min-width:1024px)" type="image/avif" srcset="./assets/scene-1440.6e1880be.avif 1440w, ./assets/scene-2880.daaa8933.avif 2880w" sizes="100vw"><source media="(min-width:1024px)" type="image/webp" srcset="./assets/scene-1440.4ed0677d.webp 1440w, ./assets/scene-2880.d6ff1ca6.webp 2880w" sizes="100vw"><source type="image/avif" srcset="./assets/kitchen-800.70b8b57f.avif 800w, ./assets/kitchen-1400.292609db.avif 1400w" sizes="(max-width:760px) 100vw, 760px"><img class="hlw-scene__bg" src="./assets/kitchen-800.654b2a1f.webp" srcset="./assets/kitchen-800.654b2a1f.webp 800w, ./assets/kitchen-1400.e611c2cb.webp 1400w" sizes="(max-width:760px) 100vw, 760px" alt="" draggable="false" decoding="async" fetchpriority="high"></picture><div class="hlw-lamp" aria-hidden="true"></div><div class="hlw-fog" aria-hidden="true"></div><div class="hlw-web hlw-web--l" aria-hidden="true"><svg class="hlw-web__svg" viewBox="0 0 200 200" aria-hidden="true" focusable="false"><path d="M0 0L171.6 12M0 0L175.9 60.6M0 0L165.8 111.8M0 0L110.6 131.8M0 0L75.7 169.9M0 0L31.3 197.5M0 0L6 171.9M29 2Q22.8 4.6 27.5 9.5M27.5 9.5Q20.8 10.4 24.9 16.8M24.1 16.3Q17.3 15.6 18.2 21.6M18.7 22.3Q12.3 19.8 11.8 26.6M11.8 26.6Q6.6 22.3 4.7 29.6M4.6 28.8Q2.2 23.2 1 28.2M55.9 3.9Q43.9 8.9 54.5 18.8M52.9 18.2Q40.1 20 45 30.4M46.4 31.3Q33.3 30 36 42.9M36 42.9Q23.7 38 23.5 52.7M22.8 51.2Q12.7 43 8.5 53.7M8.8 55.3Q4.3 44.6 2 56M87.1 6.1Q68.5 13.9 80.1 27.6M82.6 28.4Q62.5 31.2 72.4 48.9M72.4 48.9Q51.9 46.8 57.8 68.9M56.2 66.9Q37 59.3 34.5 77.4M35.5 79.8Q19.8 67 13.7 86.3M13.7 86.3Q6.7 69.6 3.1 89.9M111.7 7.8Q87.8 17.9 105.9 36.5M105.9 36.5Q80.2 40 95.6 64.5M92.9 62.6Q66.6 60 69.8 83.2M72 85.8Q47.5 76 45.6 102.3M45.6 102.3Q25.4 85.9 18 113.9M17.5 110.6Q8.6 89.2 3.8 108.6M145.2 10.2Q114.1 23.2 141.8 48.8M137.7 47.4Q104.2 52 117.1 79M120.7 81.4Q86.6 77.9 93.6 111.5M93.6 111.5Q61.7 98.8 61 137M59.2 133Q33.1 111.7 22.1 139.5M22.8 143.8Q11.2 115.9 5.1 145.5M167.6 11.7Q131.7 26.8 154.1 53.1M158.8 54.7Q120.3 60 139.3 93.9M139.3 93.9Q99.9 89.9 111.2 132.6M108 128.7Q71.2 114 66.3 148.9M68.3 153.5Q38.2 128.9 26.3 165.9M26.3 165.9Q12.9 133.8 6 172.9" fill="none" stroke="rgba(232,228,240,.55)" stroke-width=".7" vector-effect="non-scaling-stroke" stroke-linecap="round"/></svg></div><div class="hlw-web hlw-web--r" aria-hidden="true"><svg class="hlw-web__svg" viewBox="0 0 200 200" aria-hidden="true" focusable="false"><path d="M0 0L171.6 12M0 0L175.9 60.6M0 0L165.8 111.8M0 0L110.6 131.8M0 0L75.7 169.9M0 0L31.3 197.5M0 0L6 171.9M29 2Q22.8 4.6 27.5 9.5M27.5 9.5Q20.8 10.4 24.9 16.8M24.1 16.3Q17.3 15.6 18.2 21.6M18.7 22.3Q12.3 19.8 11.8 26.6M11.8 26.6Q6.6 22.3 4.7 29.6M4.6 28.8Q2.2 23.2 1 28.2M55.9 3.9Q43.9 8.9 54.5 18.8M52.9 18.2Q40.1 20 45 30.4M46.4 31.3Q33.3 30 36 42.9M36 42.9Q23.7 38 23.5 52.7M22.8 51.2Q12.7 43 8.5 53.7M8.8 55.3Q4.3 44.6 2 56M87.1 6.1Q68.5 13.9 80.1 27.6M82.6 28.4Q62.5 31.2 72.4 48.9M72.4 48.9Q51.9 46.8 57.8 68.9M56.2 66.9Q37 59.3 34.5 77.4M35.5 79.8Q19.8 67 13.7 86.3M13.7 86.3Q6.7 69.6 3.1 89.9M111.7 7.8Q87.8 17.9 105.9 36.5M105.9 36.5Q80.2 40 95.6 64.5M92.9 62.6Q66.6 60 69.8 83.2M72 85.8Q47.5 76 45.6 102.3M45.6 102.3Q25.4 85.9 18 113.9M17.5 110.6Q8.6 89.2 3.8 108.6M145.2 10.2Q114.1 23.2 141.8 48.8M137.7 47.4Q104.2 52 117.1 79M120.7 81.4Q86.6 77.9 93.6 111.5M93.6 111.5Q61.7 98.8 61 137M59.2 133Q33.1 111.7 22.1 139.5M22.8 143.8Q11.2 115.9 5.1 145.5M167.6 11.7Q131.7 26.8 154.1 53.1M158.8 54.7Q120.3 60 139.3 93.9M139.3 93.9Q99.9 89.9 111.2 132.6M108 128.7Q71.2 114 66.3 148.9M68.3 153.5Q38.2 128.9 26.3 165.9M26.3 165.9Q12.9 133.8 6 172.9" fill="none" stroke="rgba(232,228,240,.55)" stroke-width=".7" vector-effect="non-scaling-stroke" stroke-linecap="round"/></svg></div><div class="hlw-ghost" aria-hidden="true" style="--gr:0.8531"><div class="hlw-ghost__bob"><picture><source type="image/avif" srcset="./assets/ghost-640.2c72e0b8.avif"><img src="./assets/ghost-640.ccb87ec0.webp" alt="" draggable="false" decoding="async" loading="lazy"></picture></div></div><div class="hlw-items" role="group" aria-label="Страшная кухня: найди, где спрятан&nbsp;ПриЕм"><button type="button" class="hlw-item" data-id="pumpkin-lamp" aria-label="Светильник-тыква" style="--fx:26.851%;--fy:14.397%;--fw:10.000%;--fh:28.761%;--kx:2.043%;--ky:5.670%;--kw:21.541%;--kh:33.142%;--o:50% 0%;--hlw-d:0.00s"><img class="hlw-item__img" src="./assets/item-pumpkin-lamp.c3903d52.webp" alt="" draggable="false" decoding="async"></button><button type="button" class="hlw-item" data-id="cabinet-double" aria-label="Шкаф с приоткрытой дверцей" style="--fx:42.345%;--fy:24.554%;--fw:12.743%;--fh:25.603%;--kx:35.419%;--ky:17.375%;--kw:27.450%;--kh:29.502%;--o:50% 0%;--hlw-d:0.43s"><img class="hlw-item__img" src="./assets/item-cabinet-double.2a321ebc.webp" alt="" draggable="false" decoding="async"></button><button type="button" class="hlw-item" data-id="cabinet-single" aria-label="Навесной шкафчик" style="--fx:53.111%;--fy:22.473%;--fw:7.812%;--fh:26.018%;--kx:58.610%;--ky:14.976%;--kw:16.829%;--kh:29.981%;--o:50% 0%;--hlw-d:0.86s"><img class="hlw-item__img" src="./assets/item-cabinet-single.318d29f1.webp" alt="" draggable="false" decoding="async"></button><button type="button" class="hlw-item" data-id="veg-crate" aria-label="Ящик с овощами" style="--fx:40.090%;--fy:66.111%;--fw:8.854%;--fh:19.285%;--kx:30.561%;--ky:65.260%;--kw:19.073%;--kh:22.222%;--o:50% 100%;--hlw-d:1.29s"><img class="hlw-item__img" src="./assets/item-veg-crate.0ac84e96.webp" alt="" draggable="false" decoding="async"></button><button type="button" class="hlw-item" data-id="cauldron" aria-label="Котёл" style="--fx:47.917%;--fy:64.989%;--fw:9.340%;--fh:21.114%;--kx:47.420%;--ky:63.967%;--kw:20.120%;--kh:24.330%;--o:50% 100%;--hlw-d:1.72s"><img class="hlw-item__img" src="./assets/item-cauldron.4abd528a.webp" alt="" draggable="false" decoding="async"></button><button type="button" class="hlw-item" data-id="pan" aria-label="Сковорода под крышкой" style="--fx:55.158%;--fy:79.510%;--fw:11.528%;--fh:11.222%;--kx:63.018%;--ky:80.699%;--kw:24.832%;--kh:12.931%;--o:50% 100%;--hlw-d:2.15s"><img class="hlw-item__img" src="./assets/item-pan.674b38ad.webp" alt="" draggable="false" decoding="async"></button></div><div class="hlw-torch" aria-hidden="true"><div class="hlw-torch__beam"></div></div><canvas class="hlw-fx" aria-hidden="true"></canvas></div><div class="hlw-bar" id="hlw-bar" hidden><span class="hlw-bar__label">Твой промокод</span><div class="hlw-promo"><button type="button" class="hlw-code" aria-label="Скопировать промокод СТРАШНОВКУСНО">СТРАШНОВКУСНО</button><button type="button" class="hlw-copy">Скопировать</button><span class="hlw-tip" role="status" aria-live="polite"></span></div><a class="hlw-btn" href="#menu-plans-v2" data-hlw-order>Смело заказать ПриЕм с&nbsp;выгодой</a></div><div class="hlw-overlay" id="hlw-miss" hidden><div class="hlw-dialog" role="dialog" aria-modal="true" aria-labelledby="hlw-miss-title" aria-describedby="hlw-miss-text" tabindex="-1"><button type="button" class="hlw-close" data-hlw-close aria-label="Закрыть"><svg viewBox="0 0 24 24" aria-hidden="true"><path d="M6 6l12 12M18 6 6 18" fill="none"/></svg></button><div class="hlw-pic"><picture><source id="hlw-miss-avif" type="image/avif" sizes="(max-width:560px) 100vw, 560px"><img id="hlw-miss-img" alt="" sizes="(max-width:560px) 100vw, 560px" decoding="async"></picture></div><div class="hlw-body"><h2 class="hlw-dtitle" id="hlw-miss-title"></h2><p class="hlw-dtext" id="hlw-miss-text"></p><div class="hlw-actions"><button type="button" class="hlw-btn" data-hlw-close>Продолжить&nbsp;поиск</button></div></div></div></div><div class="hlw-overlay" id="hlw-win" hidden><div class="hlw-dialog" role="dialog" aria-modal="true" aria-labelledby="hlw-win-title" aria-describedby="hlw-win-text" tabindex="-1"><button type="button" class="hlw-close" data-hlw-close aria-label="Закрыть"><svg viewBox="0 0 24 24" aria-hidden="true"><path d="M6 6l12 12M18 6 6 18" fill="none"/></svg></button><div class="hlw-pic"><picture><source type="image/avif" srcset="./assets/modal-win-720.0377768a.avif 720w, ./assets/modal-win-1200.0791eab0.avif 1200w" sizes="(max-width:640px) 100vw, 640px"><img alt="Тыквоголовый скелет с клевером и довольный призрак" src="./assets/modal-win-720.e848ea72.webp" srcset="./assets/modal-win-720.e848ea72.webp 720w, ./assets/modal-win-1200.777a0dca.webp 1200w" sizes="(max-width:640px) 100vw, 640px" decoding="async"></picture></div><div class="hlw-body"><h2 class="hlw-dtitle" id="hlw-win-title">Ого, ты&nbsp;не&nbsp;только смелый, но&nbsp;и&nbsp;удачливый!</h2><p class="hlw-dtext" id="hlw-win-text">Ты&nbsp;нашёл ПриЕм, а&nbsp;значит тебе больше не&nbsp;нужно заходить на&nbsp;страшную кухню. Заказывай готовую еду ещё выгоднее с&nbsp;промокодом <b class="hlw-hl">СТРАШНОВКУСНО</b> на&nbsp;1000&nbsp;₽ (на&nbsp;заказы от&nbsp;5&nbsp;дней)</p><div class="hlw-promo"><button type="button" class="hlw-code" aria-label="Скопировать промокод СТРАШНОВКУСНО">СТРАШНОВКУСНО</button><button type="button" class="hlw-copy">Скопировать</button><span class="hlw-tip" role="status" aria-live="polite"></span></div><div class="hlw-actions"><a class="hlw-btn" href="#menu-plans-v2" data-hlw-order>Смело заказать ПриЕм с&nbsp;выгодой</a><button type="button" class="hlw-btn hlw-btn--sec" id="hlw-share" aria-expanded="false" aria-controls="hlw-sharerow">Рассказать друзьям</button></div><div class="hlw-sharerow" id="hlw-sharerow" hidden><a class="hlw-sharelink" id="hlw-share-vk" href="https://vk.com/share.php" target="_blank" rel="noopener">ВКонтакте</a><a class="hlw-sharelink" id="hlw-share-tg" href="https://t.me/share/url" target="_blank" rel="noopener">Telegram</a><button type="button" class="hlw-sharelink" id="hlw-share-copy">Скопировать ссылку</button></div></div></div></div><div class="hlw-toast" role="status" aria-live="polite"></div></div></section>

diff --git a/src/game.css b/src/game.css
@@ -236,3 +236,34 @@ html body .t-rec:has(#hlw-wrap) .t-col__overlay{pointer-events:none !important}
   #hlw-wrap .hlw-overlay,#hlw-wrap .hlw-dialog,#hlw-wrap .hlw-tip{transition:none}
   #hlw-wrap .hlw-bar{animation:none}
 }
+
+/* Невысокие экраны: иллюстрация попапа ниже, чтобы кнопки помещались без прокрутки */
+@media (max-height:860px){
+  #hlw-wrap .hlw-pic,#hlw-wrap #hlw-win .hlw-pic{max-height:30vh;max-height:30svh}
+  #hlw-wrap .hlw-dtext{margin-top:8px}
+  #hlw-wrap .hlw-promo{margin-top:14px}
+  #hlw-wrap .hlw-actions{margin-top:14px;gap:10px}
+}
+@media (max-height:700px){
+  #hlw-wrap .hlw-pic,#hlw-wrap #hlw-win .hlw-pic{max-height:24vh;max-height:24svh}
+}
+@media (max-width:374px){
+  #hlw-wrap .hlw-dtitle{font-size:20px}
+  #hlw-wrap .hlw-dtext{font-size:15px}
+  #hlw-wrap .hlw-body{padding:16px 16px 18px}
+  #hlw-wrap .hlw-btn{min-height:46px}
+}
+/* Телефон в альбомной ориентации: кухня по высоте экрана, попап в две колонки */
+@media (max-width:1023px) and (orientation:landscape) and (max-height:560px){
+  #hlw-wrap .hlw-scene{width:min(100%,calc((100svh - 64px) * 1337 / 1044))}
+  #hlw-wrap .hlw-dialog,#hlw-wrap #hlw-win .hlw-dialog{width:min(100%,820px);display:flex;align-items:stretch;max-height:calc(100svh - 20px)}
+  #hlw-wrap .hlw-pic,#hlw-wrap #hlw-win .hlw-pic{flex:0 0 38%;max-height:none;aspect-ratio:auto}
+  #hlw-wrap .hlw-pic::after{display:none}
+  #hlw-wrap .hlw-body{flex:1 1 auto;overflow-y:auto;padding:16px 20px}
+  #hlw-wrap .hlw-dtitle{font-size:20px}
+  #hlw-wrap .hlw-dtext{font-size:15px}
+  #hlw-wrap .hlw-promo{flex-wrap:nowrap}
+  #hlw-wrap .hlw-code{flex:1 1 auto;text-align:left;font-size:18px}
+  #hlw-wrap .hlw-copy{flex:0 0 auto}
+  #hlw-wrap .hlw-actions .hlw-btn{flex:1 1 auto}
+}

diff --git a/docs/PROGRESS.md b/docs/PROGRESS.md
@@ -28,3 +28,9 @@
 - Звук по умолчанию включён, стартует на первом клике в игре (автозапуск без нажатия браузеры запрещают). Эхо собирается через 0,7 с после старта.
 - AVIF (q55–60) для сцены, кухни и иллюстраций (−30 %, SSIM не хуже WebP), WebP — запасной. Простой: ~21 % потока при CPU×4 (≈5 % реального).
 - Не проверено: живые телефоны/Safari; рывок первого клика со звуком 0,8 с виден только в холодном headless — проверить на устройстве.
+
+## 19.10.2026 — Claude
+- Призрак выглядывает из-за края пещеры (раз в 10–16 с, чередует стороны, слева зеркально), после победы выплывает с пальцами вверх. Вырезан из иллюстрации победы: `scripts/cut-ghost.py` (GrabCut + ручной контур головы и пальца, мягкая альфа ткани), ассет 21 КБ AVIF.
+- Паутина — SVG из кода в верхних углах окна кухни, медленно колышется.
+- Адаптив (tests/adaptive.mjs): 320/360/390/412/768/844×390/1024/1280/1440/1920/2560 — без горизонтальной прокрутки, тексты/код не обрезаны, плашка в пределах. Исправлено: попап победы на невысоких экранах (иллюстрация 30/24 svh), заголовок на <375, альбомная ориентация телефона (кухня по высоте, попап в две колонки). Крупный шрифт +15 % (только текст): 360/390/412 — попап помещается.
+- Не проверено: живые устройства, Safari.
